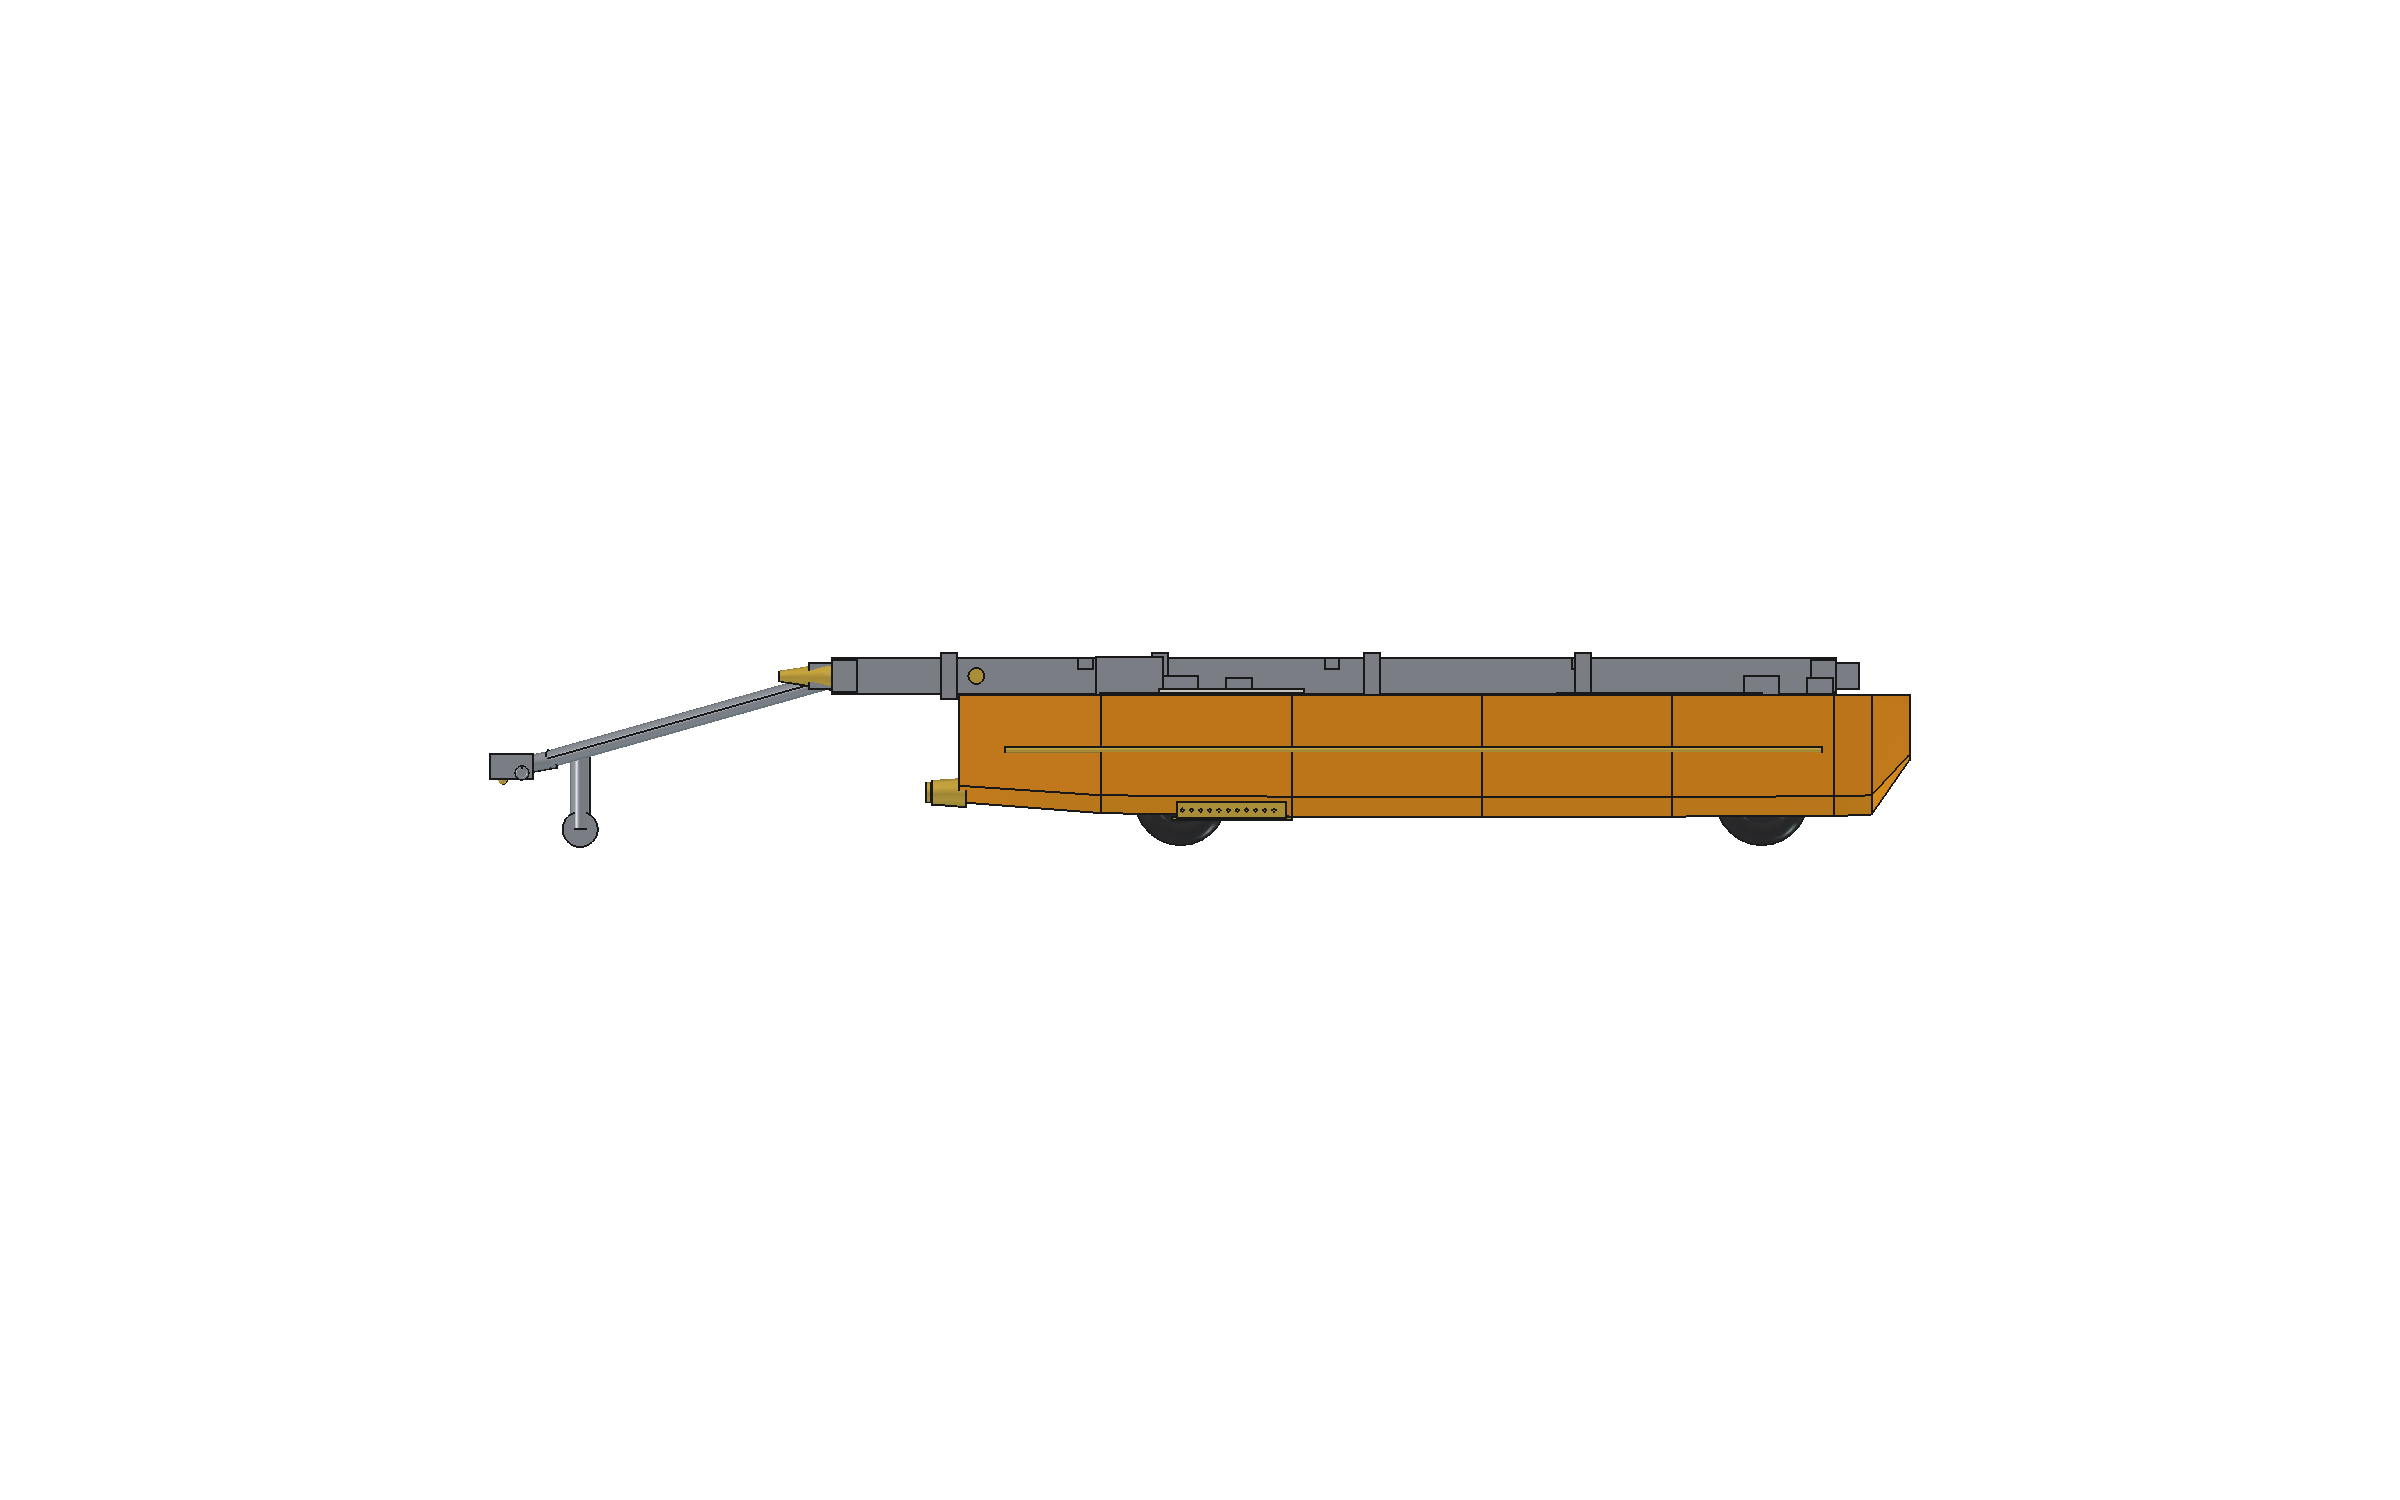
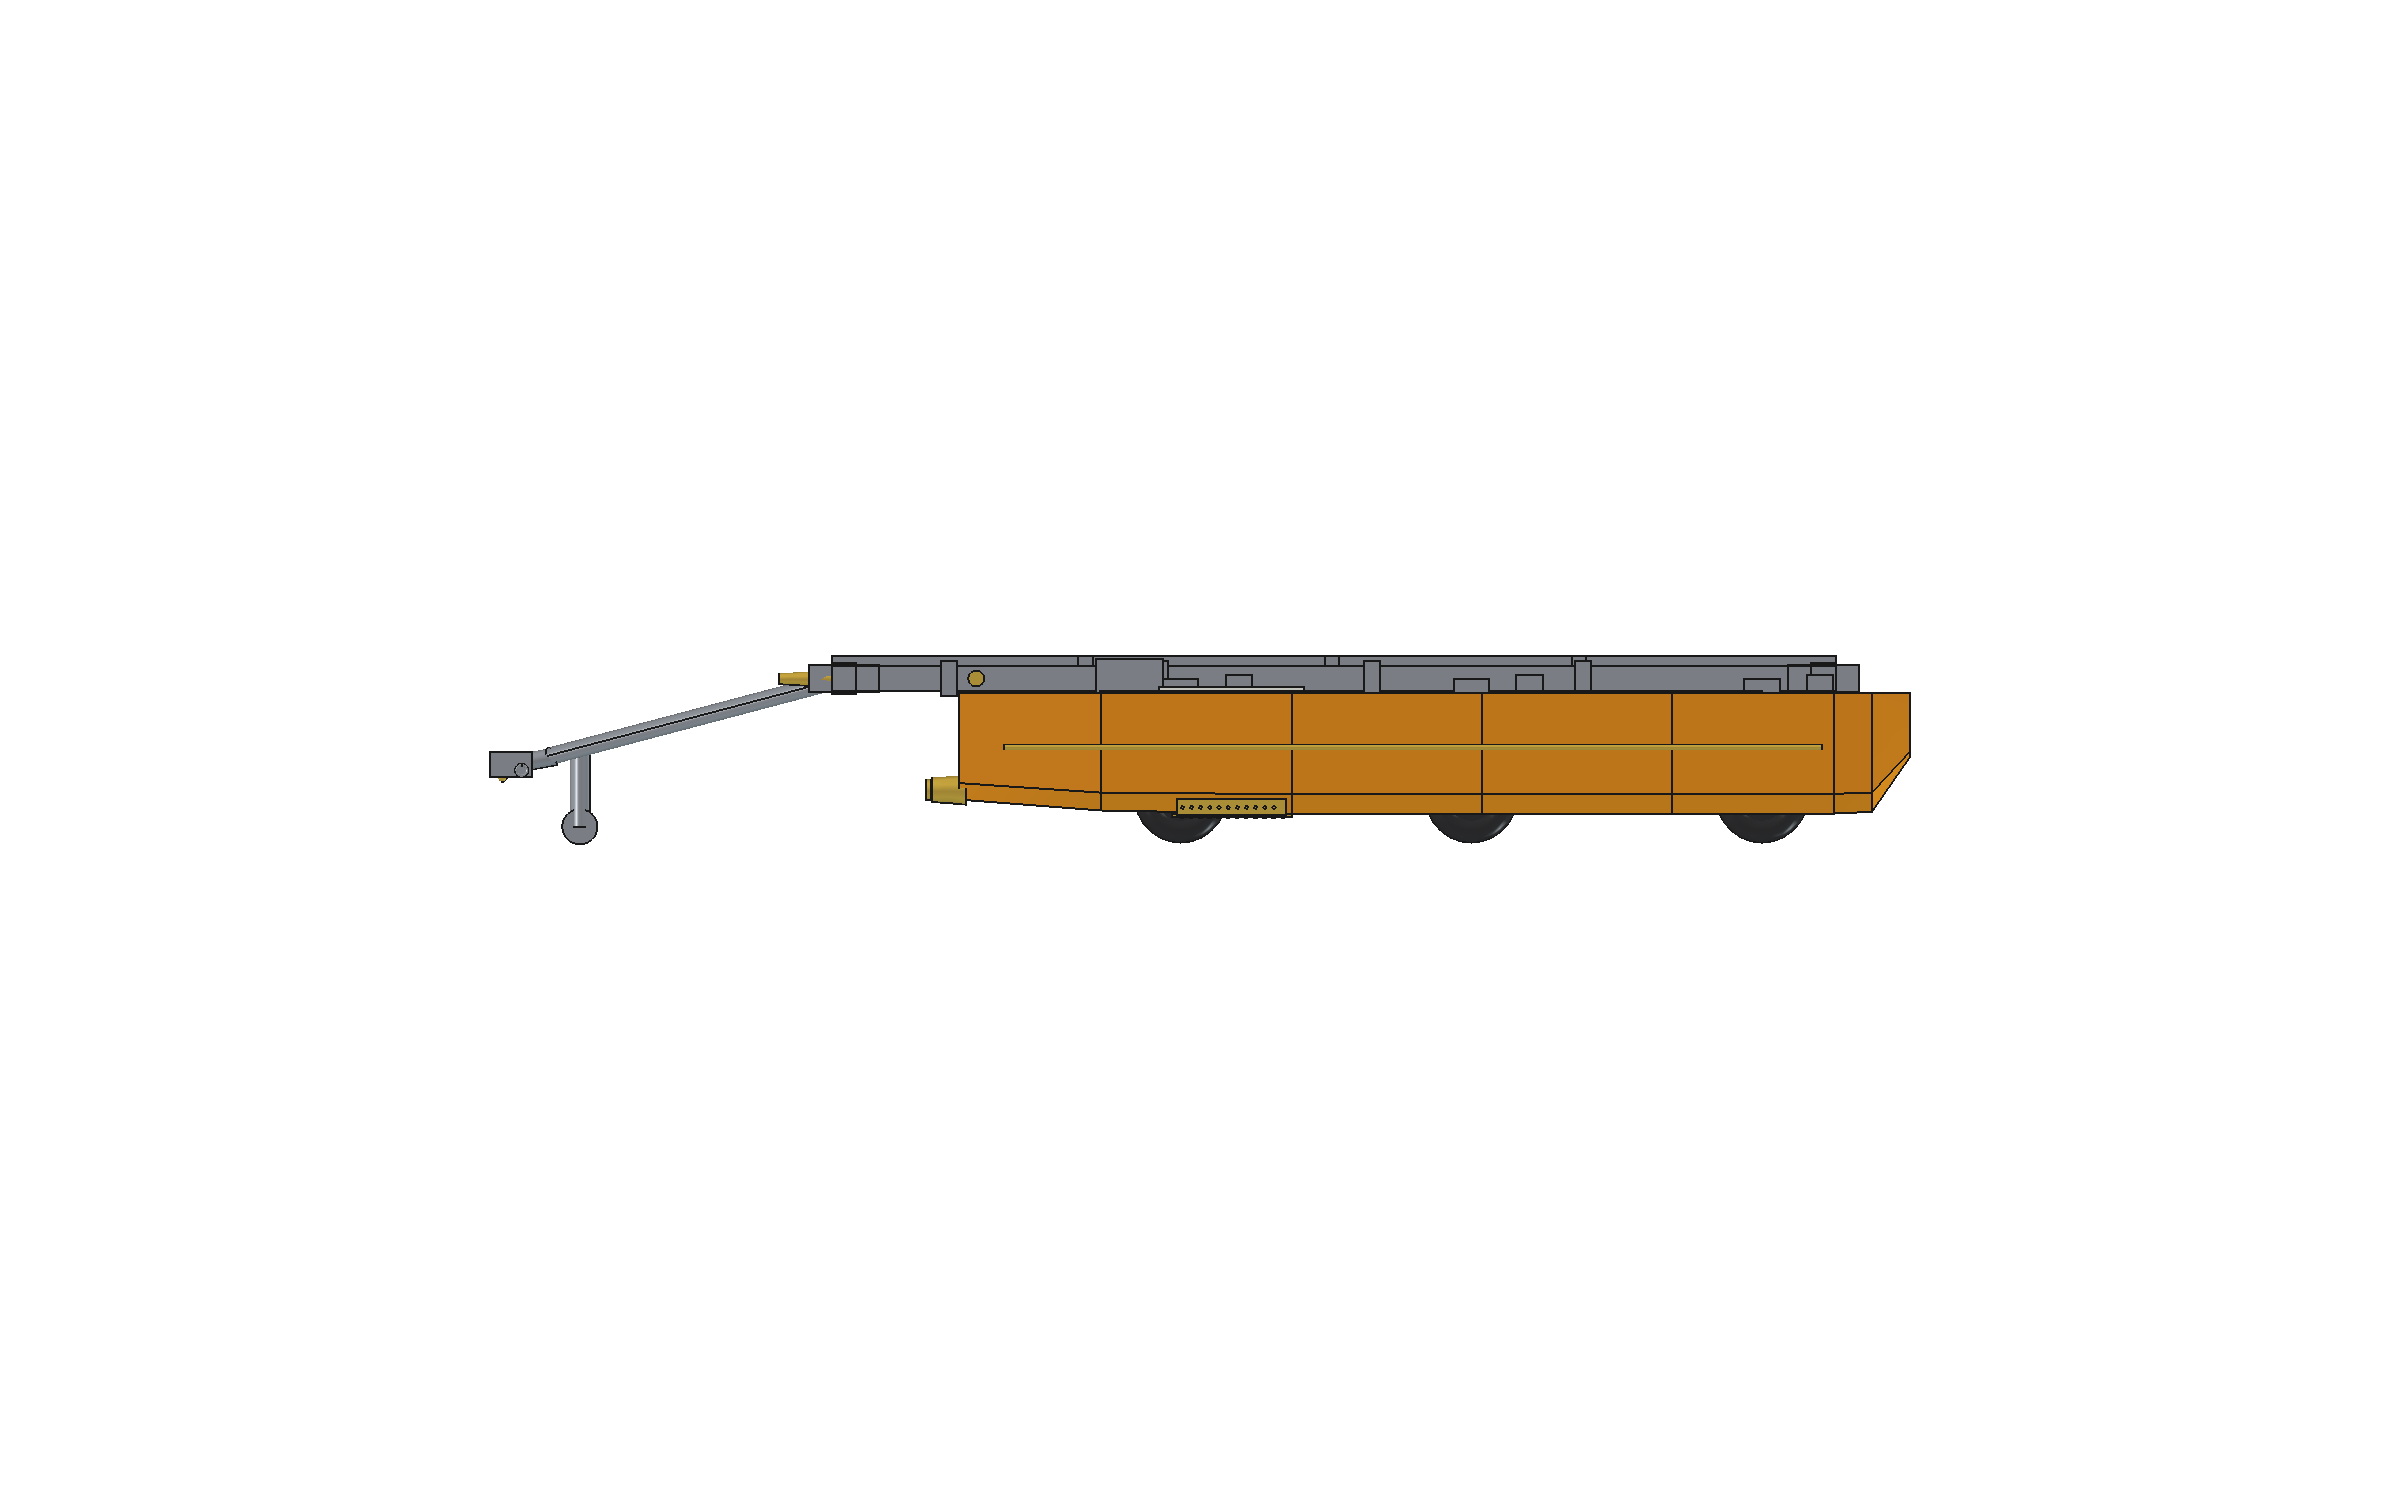
Six wheels and a bow ramp - and no, a car cannot go on it
SIX WHEELS.  A middle pair on the axle centroid at x 3510.  It halves
the girder spans, 3300 -> 1650, and bending goes as the span squared,
so the girder sized for two axles came out at SF 8 and 0.8 mm of sag
with three.  It drops to 90x140x4, 55 kg the pair against 92, which is
most of the middle wheels paid for out of girder alone.  Each wheel now
carries 517 kg against a 900 kg tyre.

Not free: a third notch pair costs 93 kg of float buoyancy a side, and
buoyancy is exactly what the hangar carries cargo on.

THE BOW RAMP.  1600 mm hinged on the frame's forward end, projecting
forward, lowering 25 degrees from the deck at z 800 to z 124.  The
forward tie is its hinge beam.

It was first drawn as the forward 1600 of the deck, hinged 1600 back
from the frame's end - which swung it straight through that tie.  The
bar in the way was structural, and it was visible the moment the hangar
was rendered on its own, which is where it was caught.

CAN A CAR GO UP IT?  No, on two independent counts.

Buoyancy decides it.  The float pair displaces 1600 kg fully immersed
and the hangar is 793 kg of that, so payload afloat is 508 kg at 20 %
reserve freeboard and 348 at 30.  A car is 900-1500 kg: it would have
the floats under before it was aboard.

Geometry agrees.  Clear width between the girders is 1580 mm and the
deck overhangs to 1760 - a Kei car's track fits, its body does not -
and the deck is 3 mm plate on ribs at 1200, which is right for people
[…]

Changed region(s): [[0.3125, 0.4293, 0.7812, 0.5827], [0.2188, 0.4907, 0.25, 0.5213]]

diff --git a/freecad/params.py b/freecad/params.py
@@ -316,6 +316,25 @@ DECK_T = 3                         # mm, 5083-H116 tread plate
 DECK_Z = 800                       # on top of the girders
 DECK_RIB = (60, 40, 3)
 DECK_RIB_PITCH = 1200
+# ---- THE BOW RAMP ----
+# A 1600 mm plate hinged on the FRAME'S FORWARD END, projecting
+# forward, that drops to make a loading ramp. The hinge is the forward
+# tie itself.
+#
+# It was first drawn as the forward 1600 mm OF THE DECK, hinged 1600
+# back from the frame's end - which put the forward tie, a beam right
+# across the frame, in the middle of the ramp's swing. Visible the
+# moment the hangar is rendered on its own.
+#
+# Lowered 25 deg it reaches from the deck at z 800 down to z 124 -
+# enough to drive a quad or a bike aboard off a slipway or a low quay,
+# and to walk gear on and off. It is NOT a car ramp; see the payload
+# note in docs/hangar.md.
+RAMP_L = 1600                      # of the deck's own length
+RAMP_DEG = 25.0                    # lowered
+RAMP_KG = 35                       # 1600 x 1780 of 3 mm plate on
+                                   # edge angle, plus pins, gas
+                                   # struts and the latch
 DECK_STRINGER = (90, 140, 4)       # centreline beam: without it each
                                    # panel cantilevers 890 mm off its
                                    # girder, which 3 mm plate will not do
@@ -354,7 +373,7 @@ def deck_mass_alu():
     sb, sh, st = DECK_STRINGER
     a_s = sb * sh - (sb - 2 * st) * (sh - 2 * st)
     stringer = a_s * l * 2.7e-6
-    return (plate + ribs + stringer) * 1.10
+    return (plate + ribs + stringer) * 1.10 + RAMP_KG
 
 
 # ---- THE KEEL SHOE ----
@@ -460,11 +479,16 @@ SEAL_DIA = 90
 # The girders have to REACH the wheels. They ran bight-to-spike-end at
 # x 3300 while the forward station sits at 5200, so that pair hung on
 # nothing at all - visible the moment the frame is rendered on its own.
-GIRDER_SECTION = (110, 200, 5)     # b, h, wall - see structure_calc.
-                                   # 240x6 was sized when the girder
-                                   # was 3.4 m; at 5.7 m it came out
-                                   # at SF 3.7 and 5.7 mm of sag, so
-                                   # it comes back down a size
+GIRDER_SECTION = (90, 140, 4)      # b, h, wall - see structure_calc.
+                                   # SIX wheels halve the girder spans:
+                                   # the longest bay goes 3300 -> 1650,
+                                   # and bending goes as the span
+                                   # SQUARED, so the section that was
+                                   # right for two axles came out at
+                                   # SF 8 and 0.8 mm of sag with three.
+                                   # This is 51 kg the pair against 92 -
+                                   # the middle wheels pay for most of
+                                   # themselves in girder steel saved.
 ARM_R = 445                        # pivot to axle
 ARM_PIVOT_Z = 445                  # so the axle reaches z 0 hanging down
 ARM_LIFT = 2 * ARM_R               # 890 mm of travel
@@ -495,7 +519,12 @@ HUB_DIA = 305            # 12 in rim
 # WHEEL STATIONS, world x - the wheels are on the FRAME now, not on
 # the floats. Two axles, wheelbase 3300, centroid 3550 so the CG at
 # 3300 sits inside it and the coupling gets 91 kg down.
-WHEEL_XS = (1860, 5160)
+WHEEL_XS = (1860, 3510, 5160)      # SIX wheels: a middle pair on the
+                                   # axle centroid. It halves the girder
+                                   # spans, drops each wheel from 743 to
+                                   # 495 kg against a 900 kg tyre, and
+                                   # gives a spread-out load path for a
+                                   # deck that now carries cargo.
 WHEEL_Y = 910                      # wheel centreline: the pocket eats
                                    # the float's INNER half (810..1010)
                                    # and straddles the stem face. Track
@@ -662,8 +691,8 @@ def well_loss_kg():
     """kg of buoyancy the wheel notches take out of ONE float: the notch
     that lets the wheel down past it, plus the full-height slot where
     the fixed leg tube passes."""
-    return (2 * (WELL_L * WELL_W * WELL_H
-                 + WELL_TUBE_L * WELL_W * (FLOAT_H - WELL_H))
+    return (len(WHEEL_XS) * (WELL_L * WELL_W * WELL_H
+                             + WELL_TUBE_L * WELL_W * (FLOAT_H - WELL_H))
             / 1e9 * 1000)
 
 
@@ -1405,12 +1434,14 @@ MASS_UGIRDER = 0           # computed: see girder_mass()
                            # span at 3.1 m and the 160-deep section
                            # deflected 22.6 mm against a 12.4 limit -
                            # stiffness, not stress, set this size
-MASS_WHEELS_HUBS = 60      # 4 x 15 kg 155/70 R12C on steel
+MASS_WHEELS_HUBS = 15 * 2 * len(WHEEL_XS)   # 15 kg a wheel,
+                           # 155/70 R12C on steel rims
 MASS_EXTENDERS = 0         # computed: see swing_arm_mass()
                            # 70x70x4 chords - the chords take the
                            # moment axially instead of a box wall
                            # taking it in bending
-MASS_FLIPGEAR = 4 * ARM_KG   # swing arms: arm, pivot, bearings, actuator
+MASS_FLIPGEAR = 2 * len(WHEEL_XS) * ARM_KG   # wheel swing arms:
+                           # arm, pivot, bearings, actuator
 MASS_HYDRAULICS = 80       # 2 x (3 kW motor + reduction + seal),
                            # one per float, plus controls
 MASS_JETS = 75             # 3 x 2 kW waterjet cartridges incl. ducting

diff --git a/freecad/build_boat.py b/freecad/build_boat.py
@@ -767,6 +767,23 @@ def build_hangar(phi, coupled=True, tow="sea"):
                 parts.append(box(rb, dw, rh,
                                  (P.GIRDER_X0 + k * P.DECK_RIB_PITCH,
                                   0 if sy > 0 else -dw, P.DECK_Z - rh)))
+        # THE BOW RAMP hinges on the FRAME'S FORWARD END and projects
+        # forward. It used to hinge 1600 mm back from there, which put
+        # the forward tie - a structural beam right across the frame -
+        # in the middle of its swing.  The tie is now the hinge beam
+        # instead of an obstacle.
+        hx = P.GIRDER_X1
+        ramp = box(P.RAMP_L, 2 * dw, P.DECK_T, (0, -dw, -P.DECK_T))
+        ramp.Placement = Placement(
+            Vector(hx, 0, P.DECK_Z),
+            Rotation(Vector(0, 1, 0), P.RAMP_DEG))
+        parts.append(ramp)
+        for sy in (-1, 1):          # the hinge knuckles and a gas strut
+            parts.append(Part.makeCylinder(
+                45, 160, Vector(hx, sy * dw - 80, P.DECK_Z), Vector(0, 1, 0)))
+            parts.append(rod((hx - 700, sy * (dw - 120), P.DECK_Z - 40),
+                             (hx + 500, sy * (dw - 120),
+                              P.DECK_Z - P.RAMP_L * 0.42 * 0.5), 55))
 
     # ---- THE BIGHT AND THE FORWARD TIE. Two girders on their own are
     # two rails; what makes them a frame is a transverse tie at each
